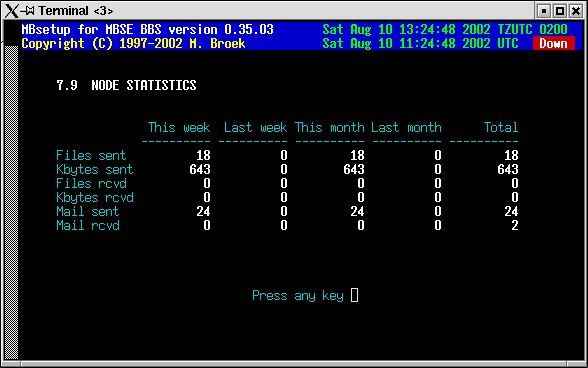
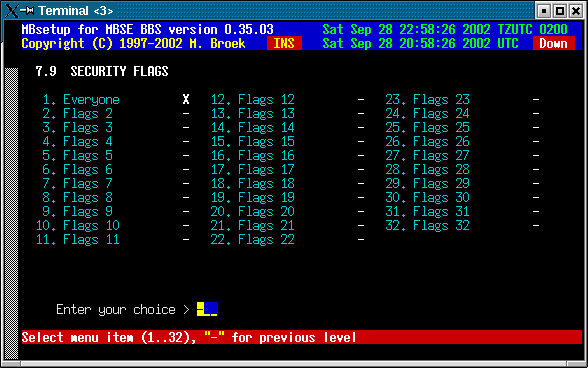
Updated documentation

diff --git a/html/basic.html b/html/basic.html
@@ -12,10 +12,9 @@
 </HEAD>
 <BODY>
 <BLOCKQUOTE>
-<h5>Last update 22-Apr-2002</h5>
-<P>&nbsp;<P>
+<div align="right"><h5>Last update 28-Sep-2002</h5></div>
 
-<h1>MBSE BBS Basic Installation</h1>
+<div align="center"><h1>MBSE BBS Basic Installation</h1></div>
 
 <h3>Introduction.</h3>
 <p>
@@ -31,46 +30,49 @@ layout looks like this:<br>
 /opt/mbse                      0775  Default MBSE_ROOT
 /opt/mbse/bin                  0755  Binaries
 /opt/mbse/doc                  0755  Generated sitedocs
-/opt/mbse/dutch/macro          0755  N/A
+/opt/mbse/dutch/macro          0755  Dutch macro files
 /opt/mbse/dutch/menus          0755  Dutch menu files
 /opt/mbse/dutch/txtfiles       0755  Dutch ANSI files
-/opt/mbse/english/macro        0755  Default english macros, not yet.
-/opt/mbse/english/menus        0755  Default english menus
+/opt/mbse/english/macro        0755  Default english macro files
+/opt/mbse/english/menus        0755  Default english menu files
 /opt/mbse/english/txtfiles     0755  Default english ANSI files
 /opt/mbse/etc                  0775  System configuration files
 /opt/mbse/fdb                  0775  Files database
 /opt/mbse/ftp/pub              0775  Default FTP root for download areas.
-/opt/mbse/galego/macro         0755  N/A
+/opt/mbse/galego/macro         0755  Galego macro files
 /opt/mbse/galego/menus         0755  Galego menu files
 /opt/mbse/galego/txtfiles      0755  Galego ANSI files
 /opt/mbse/home                 0770  Users homedirectories
 /opt/mbse/home/bbs             0770  Newuser account
 /opt/mbse/html                 0755  HTML documentation
-/opt/mbse/italian/macro        0755  N/A
+/opt/mbse/italian/macro        0755  Italian macro files
 /opt/mbse/italian/menus        0755  Italian menu files
 /opt/mbse/italian/txtfiles     0755  Italian ANSI files
 /opt/mbse/log                  0775  MBSE BBS logfiles
 /opt/mbse/magic                0755  Magic filerequest names
 /opt/mbse/sema                 0777  Semafore files
-/opt/mbse/spanish/macro        0755  N/A
+/opt/mbse/spanish/macro        0755  Spanish macro files
 /opt/mbse/spanish/menus        0755  Spanish menu files
 /opt/mbse/spanish/txtfiles     0755  Spanish ANSI files
 /opt/mbse/tmp                  0775  Temp directory
 /opt/mbse/tmp/arc              0775  Temp archiver directory
 /opt/mbse/var                  0770  Var root
+/opt/mbse/var/arealists        0750  Areamgr arealist files
 /opt/mbse/var/badtic           0750  Bad TIC files
+/opt/mbse/var/boxes            0750  Base for nodes fileboxes
 /opt/mbse/var/bso              0750  Binkley Style Outbound directory
 /opt/mbse/var/bso/outbound     0750  Default outbound for main aka
 /opt/mbse/var/inbound          0750  Protected inbound directory
 /opt/mbse/var/mail             0770  JAM messagebase root
 /opt/mbse/var/msgs             0750  *.msgs netmail directory (not yet in use).
 /opt/mbse/var/nodelist         0750  Nodelists
+/opt/mbse/var/queue            0750  Queue for before outbound
 /opt/mbse/var/ticqueue         0750  Queue for TIC files
 /opt/mbse/var/unknown          0750  Unprotected inbound directory
 </pre>
 <p>
 Don't use UMSDOS or SAMBA filesystems for the bbs, stick by the standard Linux
-filesystems (ext2 or reiserfs) or ufs if you use FreeBSD.
+filesystems (ext2, ext3 or reiserfs) or ufs if you use FreeBSD.
 If you intent to make your bbs also accessible
 by FTP and WWW you must create the directory structure under the ftp user
 behind the pub directory. Read <a href="misc/ftpserver.html">the
@@ -88,15 +90,15 @@ previous or failed installation on your system. If that's so the script will
 not run. In other words, you can only run this script once. The script makes
 backup copies of the system files it changes, these files will get the
 extension <strong>.mbse</strong> To run the installation script you need
-the archive <strong>mbbsebbs-0.33.nn.tar.gz</strong>.
+the archive <strong>mbbsebbs-0.nn.nn.tar.gz</strong>.
 Unpack this archive on your system, in /tmp will do fine:
 <pre>
 cd /tmp
-tar xfvz /path/to/the/mbsebbs-0.33.nn.tar.gz
+tar xfvz /path/to/the/mbsebbs-0.nn.nn.tar.gz
 </pre>
 To start the script type:
 <pre>
-cd mbsebbs-0.33.nn
+cd mbsebbs-0.nn.nn
 bash ./SETUP.sh
 </pre>
 Yes, use <b>bash</b> as shell here. On some systems root doesn't use  bash
@@ -134,10 +136,10 @@ If something is wrong, now is the time to fix it. Don't panic and remember
 the backups of the system files that are changed are in /etc with the 
 extension <strong>.mbse</strong> i.e: those were the original files.
 The installation logfile is copied to /opt/mbse.
-If everythings is allright, then remove the directory /tmp/mbsebbs-0.33.nn:
+If everythings is allright, then remove the directory /tmp/mbsebbs-0.nn.nn:
 <pre>
 cd /tmp
-rm -Rf mbsebbs-0.33.nn
+rm -Rf mbsebbs-0.nn.nn
 </pre>
 <p>&nbsp;<p>
 
@@ -146,12 +148,12 @@ rm -Rf mbsebbs-0.33.nn
 Login as user <b>mbse</b>. Yes, very important, <b>login as user mbse</b>.
 While in mbse's home directory (/opt/mbse) unpack the distribution archives:
 <pre>
-tar xfvz /path/to/mbsebbs-0.33.nn.tar.gz
+tar xfvz /path/to/mbsebbs-0.nn.nn.tar.gz
 </pre>
 You now have the subdirectory with sources in the right place. 
 Next build the binaries and install them using the folowing commands:
 <pre>
-cd ~/mbsebbs-0.33.nn
+cd ~/mbsebbs-0.nn.nn
 ./configure
 make
 su        <b>important, do not use "su -"</b>

diff --git a/html/setup/nodes.html b/html/setup/nodes.html
@@ -12,7 +12,7 @@
 </HEAD>
 <BODY>
 <BLOCKQUOTE>
-<div align=right><h5>Last update 10-Aug-2002</h5></div>
+<div align=right><h5>Last update 28-Sep-2002</h5></div>
 
 <div align=center><H1>MBSE BBS Setup - Fidonet nodes.</H1></div>
 <P>
@@ -22,7 +22,7 @@
 Unlike many other bbs packages, for each node you need only one record. If you
 have a relation with a node for one network with costsharing, and other 
 networks without costsharing you need two records for that node. For each node
-you can setup the aka's, mail, files and session handshake. There are nine
+you can setup the aka's, mail, files and session handshake. There are ten 
 screens for each node.
 <p>&nbsp;<p>
 
@@ -347,7 +347,16 @@ and path of the lockfile to create.</td></tr>
 <IMG SRC="../images/nodes8.png">
 <P>&nbsp;<P>
 
-<H3>9. Statistics</H3>
+<H3>9. Security</H3>
+<P>
+This will set the security bits for the node. These bits can be used to give
+access or deny access to certain echomail areas or tic file areas. Default bit 1
+is set for each node.
+<P>
+<IMG SRC="../images/nodes9.png">
+<P>
+
+<H3>10. Statistics</H3>
 <P>
 In this statistics screen you can see the mail and files flow with this
 node. Values are stored for the current week, the previous week, the
@@ -355,7 +364,7 @@ current month and previous month and the overall total since you defined
 this node. There are actual 12 months of statistics stored in the nodes
 record, only 2 are visible.
 <P>
-<IMG SRC="../images/nodes9.png">
+<IMG SRC="../images/nodes10.png">
 <P>
 
 <A HREF="./"><IMG SRC="../images/larrow.gif" ALT="Back" Border="0">Back to index</A>&nbsp;

diff --git a/html/setup/global.html b/html/setup/global.html
@@ -12,10 +12,9 @@
 </HEAD>
 <BODY>
 <BLOCKQUOTE>
-<h5>Last update 04-Aug-2002</h5>
-<P>&nbsp;<P>
+<div align="right"><h5>Last update 28-Sep-2002</h5></div>
 
-<H1>MBSE BBS Setup - Global Setup</H1>
+<div align="center"><H1>MBSE BBS Setup - Global Setup</H1></div>
 <P>
 
 In this setup you can edit all global settings for MBSE BBS. All sections will
@@ -51,6 +50,7 @@ group them.
 <pre>
 <strong>System logfile    </strong>The name of the main logfile
 <strong>Error logfile     </strong>The name of the errors logfile
+<strong>Mgr logfile       </strong>The name of the area-/filemgr logfile
 <strong>Default menu      </strong>The name of the default main menu
 <strong>Default language  </strong>The name of the default language
 <strong>Chat logfile      </strong>The name of the logfile for chatting
@@ -125,7 +125,7 @@ one is on a separate filesystem. Ext2, reiserfs, msdos and vfat partitions
 are checked. The lowest free diskspace found counts. Default is 10 MB.
 <p>
 
-<h3>1.6. Flag Descriptions.</h3>
+<h3>1.6. User flag Descriptions.</h3>
 <p>
 In this menu you can give the 32 users flags a meaningfull description.
 <p>
@@ -463,8 +463,12 @@ there is no user authentication yet available.
 </pre>
 <P>
 
+<h3>1.20. Manager flag Descriptions.</h3>
+<p>
+In this menu you can give the 32 area-/filemgr flags a meaningfull description.
+<p>
+
 <A HREF="./"><IMG SRC="../images/larrow.gif" ALT="Back" Border="0" align="bottom">Back to index</A>
-&nbsp;
 <A HREF="../"><IMG SRC="../images/b_arrow.gif" ALT="Home" Border="0" align="bottom">Back to main index</A>
 </BLOCKQUOTE>
 </BODY>

diff --git a/html/intro.html b/html/intro.html
@@ -12,9 +12,9 @@
 </HEAD>
 <BODY>
 <BLOCKQUOTE>
-<h5>Last update 21-Jan-2002</h5>
-<P>&nbsp;<P>
-<H1>Introduction to MBSE BBS.</H1>
+<div align="right"><h5>Last update 28-Sep-2002</h5></div>
+
+<div align="center"><H1>Introduction to MBSE BBS.</H1></div>
 <P>
 
 <H3>Distribution.</H3>
@@ -27,7 +27,8 @@ There are only four official distribution sites for the mbse bbs package. They a
  <LI>fidonet node 2:280/2801 (+31-255-536577).
 </OL>
 If you find mbse bbs on another site it may be out of date. I have no control over these sites.
-New versions of mbse bbs are announced in the fidonet area LINUX_BBS. On the official fidonet
+New versions of mbse bbs are announced in the fidonet area LINUX_BBS and MBSE
+support echo. On the official fidonet
 nodes you can request the latest version with the magic MBSEBBS. You will then get a zip file,
 in this zip file is the original tar.gz file. This is to let systems who only support 8.3
 filenames to pickup the distribution package. You can also subscribe to the mailinglist

diff --git a/html/dist.html b/html/dist.html
@@ -12,10 +12,9 @@
 </HEAD>
 <BODY>
 <BLOCKQUOTE>
-<h5>Last update 16-Feb-2002</h5>
-<P>&nbsp;<P>
+<div align="right"><h5>Last update 28-Sep-2002</h5></div>
 
-<H1>Unix Distributions.</H1>
+<div align="center"><H1>Unix Distributions.</H1></div>
 <P>
 
 <H3>Which distribution</H3>
@@ -56,7 +55,7 @@ might work.
 
 <H3>Debian</H3>
 <P>
-The installation works on a Debian 2.1 and 2.2 distribution without any problems.
+The installation works on a Debian 2.1, 2.2 and 3.0 distribution without any problems.
 How to build an optimized Debian system is not tested by me.
 <P>&nbsp;<P>
 
@@ -73,7 +72,7 @@ You may need to build mgetty yourself if you have an older FreeBSD distribution.
 <H3>NetBSD</H3>
 <P>
 I use an old Sun Sparcstation 2 with NetBSD 1.5.2. This is more stable then
-Linux on Sparc systems. This is still in test, info will follow later.
+Linux on Sparc systems. Only network connections are tested.
 <P>&nbsp;<P>
 
 <H3>Famous last words...</H3>
